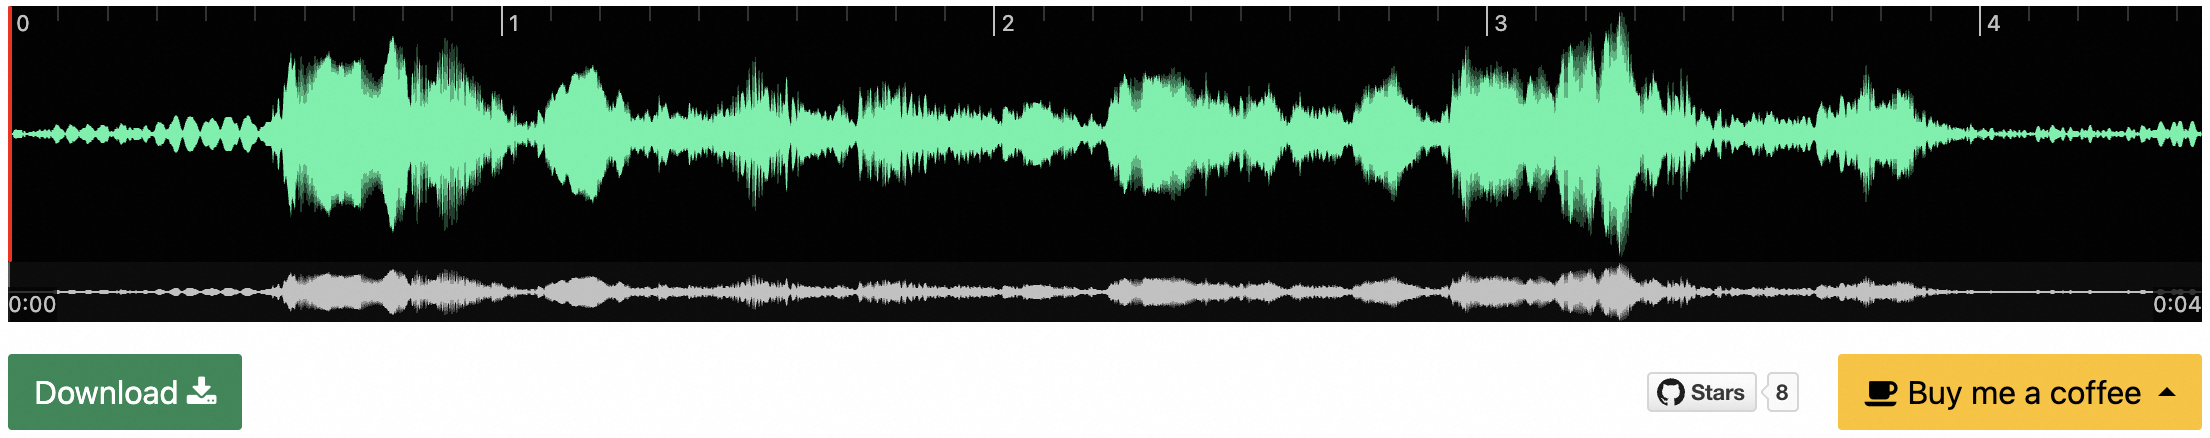
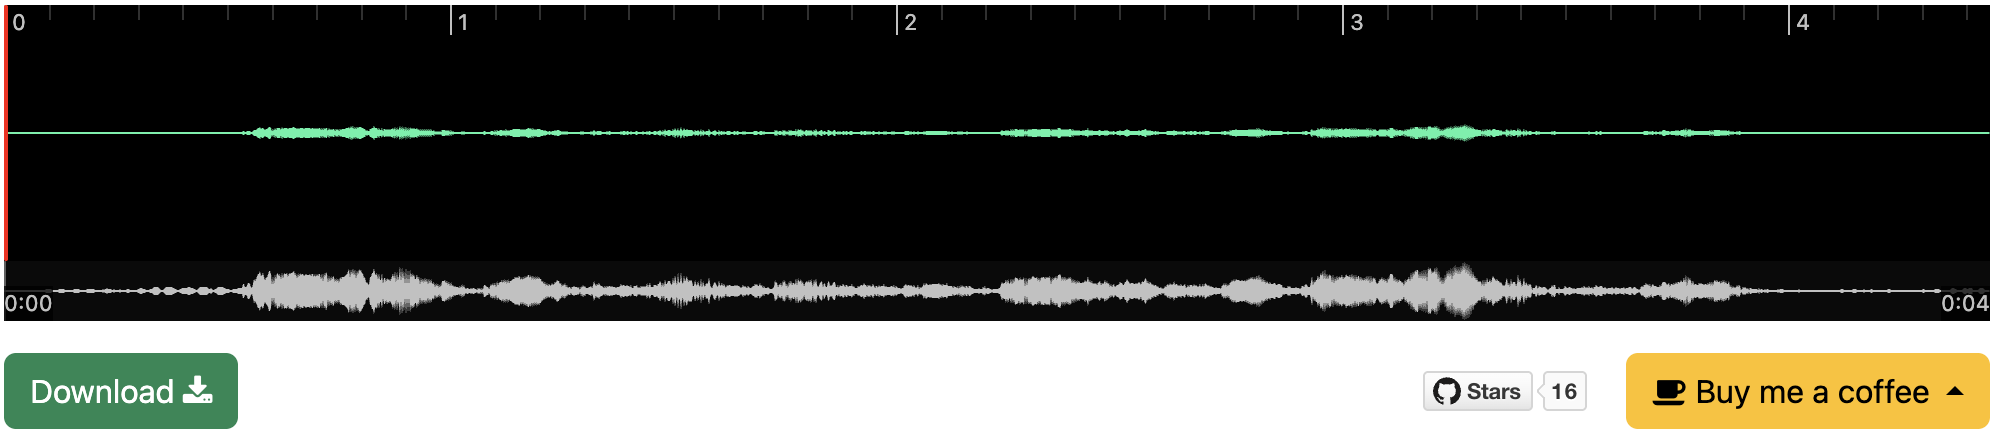
add region border

diff --git a/wavesurfer/js/wavesurfer.js b/wavesurfer/js/wavesurfer.js
@@ -54,22 +54,29 @@ function createPlugins(config) {
         })
         this.wavesurfer.on('timeupdate', (currentTime) => document.querySelector(`#time-${uuid}`).textContent = formatTime(currentTime))
 
-        this.regions = []
         let activeRegion = null
-        this.regions_plugin = WaveSurfer.Regions.create()
-        this.regions_plugin.on('region-in', (region) => activeRegion = region)
-        this.regions_plugin.on('region-out', (region) => {if (activeRegion === region) activeRegion = null})
-        this.regions_plugin.on('region-clicked', (region, e) => {
+        this.regionsPlugin = WaveSurfer.Regions.create()
+        this.regionsPlugin.on('region-in', (region) => activeRegion = region)
+        this.regionsPlugin.on('region-out', (region) => {if (activeRegion === region) activeRegion = null})
+        this.regionsPlugin.on('region-clicked', (region, e) => {
           e.stopPropagation()
           activeRegion = region
           region.play(true)
         })
-        this.wavesurfer.registerPlugin(this.regions_plugin)
+        this.wavesurfer.registerPlugin(this.regionsPlugin)
 
+        this.regions = []
         this.wavesurfer.on('decode', (duration) => {
           document.querySelector(`#duration-${uuid}`).textContent = formatTime(duration)
-          for (const region of this.regions.map(region => ({ ...region, ...config.pluginOptions?.regions }))) {
-            this.regions_plugin.addRegion(region)
+          for (const regionParams of this.regions.map(region => ({ ...region, ...config.pluginOptions?.regions }))) {
+            let region = this.regionsPlugin.addRegion(regionParams)
+            region.content.style.color = regionParams.contentColor
+            Object.assign(region.element.style, {
+              border: regionParams.border,
+              display: 'flex',
+              justifyContent: 'center',
+              alignItems: 'center'
+            })
           }
         })
         this.wavesurfer.on('interaction', () => {

diff --git a/wavesurfer/timer.py b/wavesurfer/timer.py
@@ -15,7 +15,7 @@
 import logging
 import time
 
-logging.basicConfig(level=logging.INFO)
+logger = logging.getLogger(__name__)
 
 
 class Timer:
@@ -43,9 +43,9 @@ class Timer:
         self.end_time = time.perf_counter()
         elapsed = self.end_time - self.start_time
         if self.name:
-            logging.info(f"[{self.name}] {self.cost_label}: {elapsed:.6f} {self.unit}")
+            logger.info(f"[{self.name}] {self.cost_label}: {elapsed:.6f} {self.unit}")
         else:
-            logging.info(f"{self.cost_label}: {elapsed:.6f} {self.unit}")
+            logger.info(f"{self.cost_label}: {elapsed:.6f} {self.unit}")
 
     def __str__(self):
         """
@@ -78,5 +78,5 @@ class Timer:
         elapsed = end_time - self.start_time
 
         if self.verbose:
-            logging.info(self.str())
+            logger.info(self.str())
         return elapsed

diff --git a/README.md b/README.md
@@ -52,7 +52,7 @@ Display alignment information on the waveform:
 from wavesurfer import play
 
 # Play with alignment information from a TextGrid file
-play("assets/test_16k.wav", alignments="assets/test_16k.TextGrid")
+play("assets/test_16k.wav", alignments="assets/test_16k.TextGrid", config={"options": {"normalize": True}})
 ```
 
 ![](assets/test_16k_regions.png)
